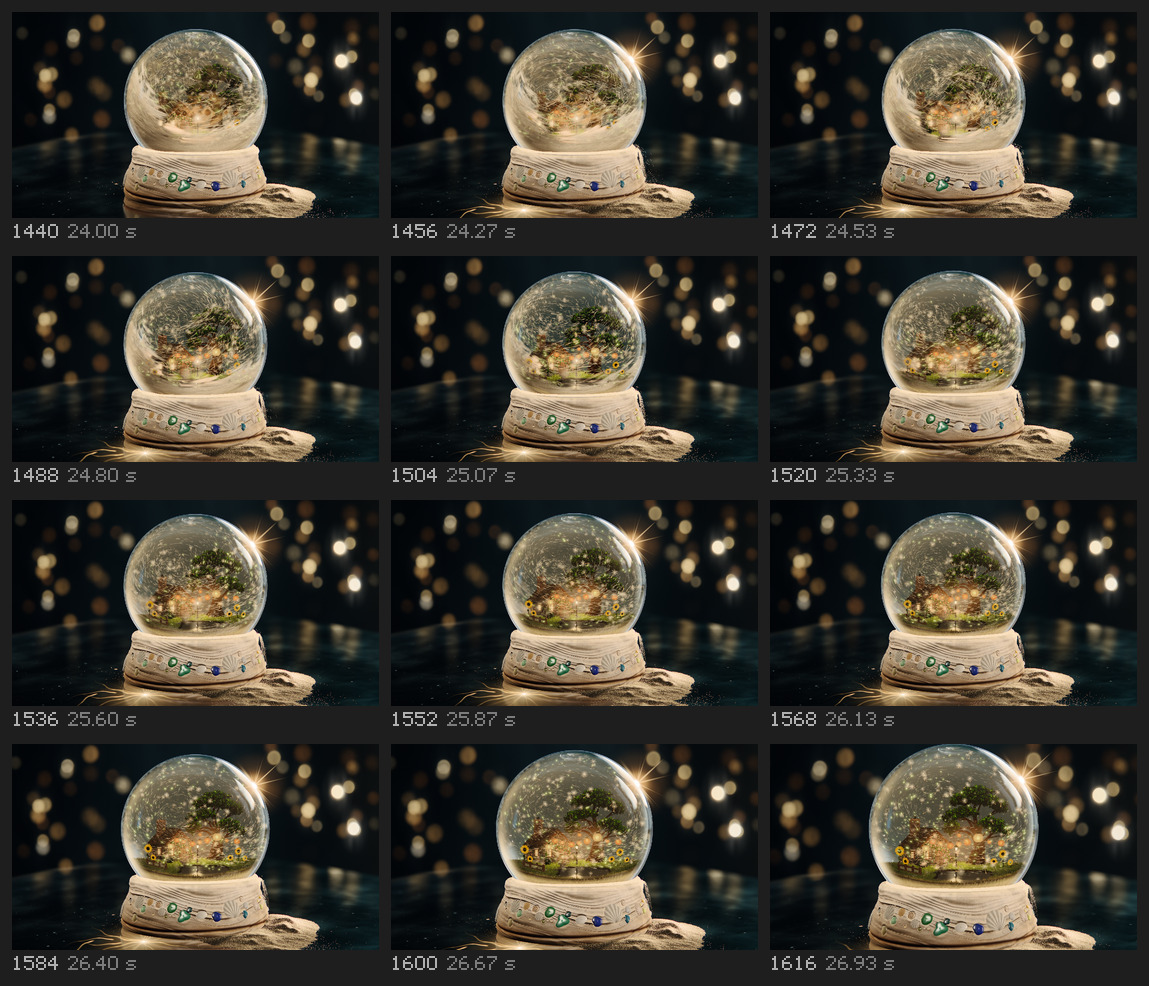
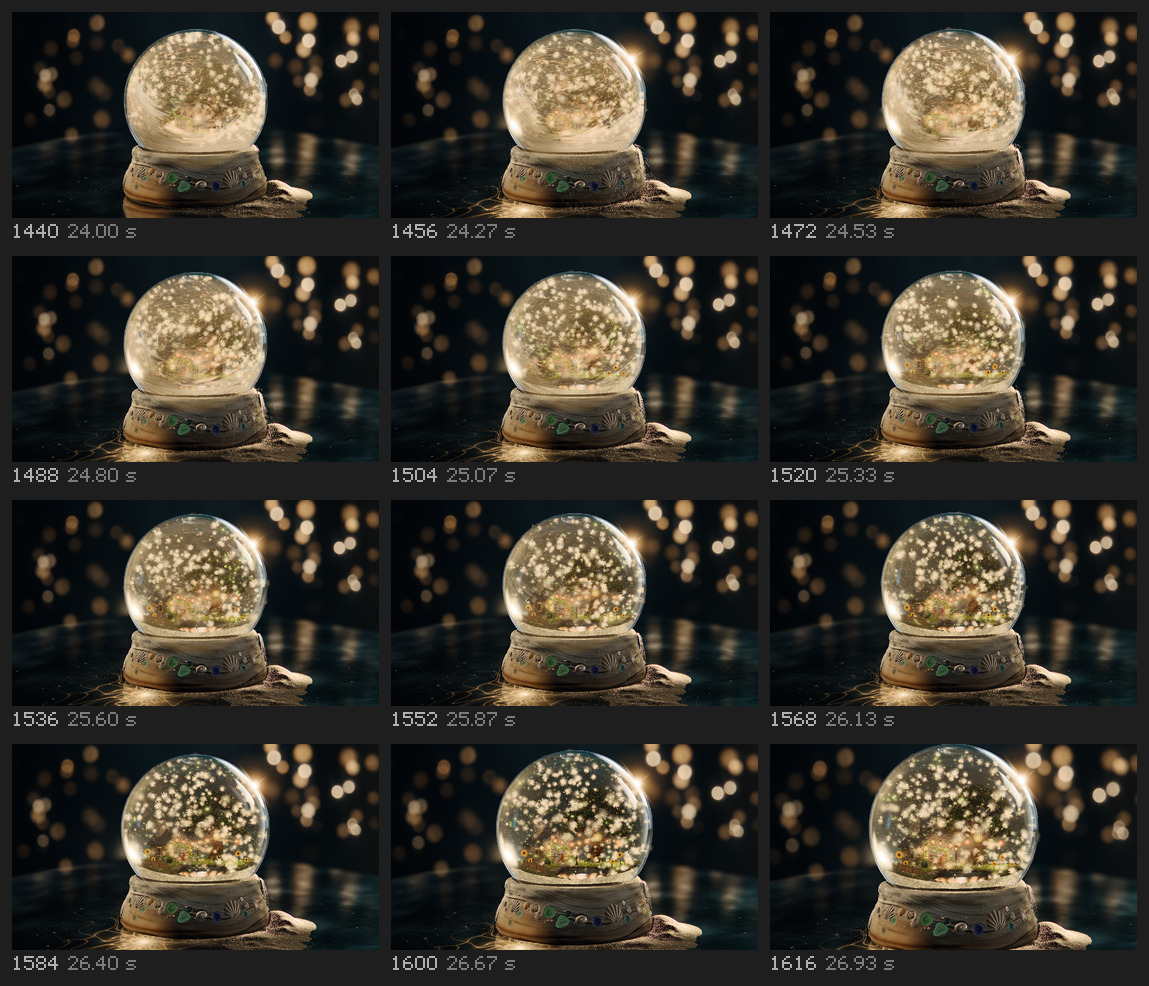
Looks: shake-2 and summer's arrival on c568e8a, frame 2116 at final tier; REPORT.md and HANDOVER.md

diff --git a/HANDOVER.md b/HANDOVER.md
@@ -1,0 +1,130 @@
+# Handover: unit `change` (the four changes of season, the three arrivals)
+
+Written by change_builder. Branch `agent/p4-change`, looks `agent/p4-change-looks`. Times UTC.
+
+## State in one line each
+
+| Part | Film frames | State | Worst thing on the newest sheet |
+| --- | --- | --- | --- |
+| change-winter-spring (shake-1) | window 648 to 683, outside span 672.2 to 677.8, landing 720 | built, flag down | stipple on the dissolving walnut base at 674 to 676 at draft's 2 samples |
+| change-spring-summer (shake-2) | 1368 to 1403, 1392.2 to 1397.8, landing 1440 | built, flag down | on the build of c568e8a (sheet of 05:26): stipple on the base at 1394 and 1396, moss and shell base over each other; the sand heap is whole at the right of the foot from 1394 while petals still lie beyond it until 1398; the shell base is pale and flat in the flood at 1398, its shells read from 1400 |
+| change-summer-fall (shake-3) | 2088 to 2123, 2112.2 to 2117.8, landing 2160 | built, flag down | stipple on the dissolving shell base at 2114 and 2116 at draft (the globe hardly moves across those two frames, so no blur covers it); summer's flare stands on the rim to 2112 until summer_air2's 9d99651 is on main |
+| change-fall-winter (shake-4) | 2808 to 2843, 2832.2 to 2837.8, landing 2880 | built, flag down | winter's base is rust orange in winter's own amber flood 2836 to 2840; the approved winter test shake shows the same (frames 84 to 104), so it is winter's look, not a half base |
+| arrival-spring | from 720 | rows have code in their owners' files on the landing clock; `arrival.ts` only sets the clock | beads on the glass and the rising mist cannot be read at sheet size; the storm thins inside one second (720 to 784), not as a slow whirl over `shake.spinDownSeconds`; the petals' jump (736) and the first water (752) read |
+| arrival-summer | from 1440 | built: grains (`arrival.ts`), flare, lanterns, pool in owners' files | on the build of c568e8a (sheet of 05:29, 1440 to 1616): the storm is whole on the landing, the flare kindles at 1456, the light pools at the foot from 1456, the storm thins slowly and the miniature is clear by 1584. Wrong: the jump of the sand is 0.1 s long and under 5 mm high and does not read; the pour off the ledge is faint; lanterns one by one and fireflies finding their places cannot be told at sheet size |
+| arrival-fall | from 2160 | rows have code in their owners' files on the landing clock; `arrival.ts` only sets the clock | the crack spreading and the bats finding the crown cannot be read at sheet size; the skitter is a small shift near the foot, not a run; faces light middle, right, left inside 0.5 s (2176 two, 2192 three); the fog pools from 2208 |
+
+No stand-in and no fallback is left in any of the seven parts. Neither named fallback was used.
+
+## How a change works (what to keep)
+
+One number, `filmState().change`, 0 before the swap window and 1 after it. `src/shake/change.ts` gives every seasonal part its span of that number (`SPANS`), pinned by `tests/shake-change.test.ts`:
+
+- inside the glass (`miniature`, `arrival`): 0.05 to 0.95, half of it a lag from the far side to the near side, hidden by the storm;
+- `light`, `veil`, `particles`: 0 to 1;
+- outside the glass (`base`, `glass-dressing`, `surface-dressing`, `backdrop`): `OUTSIDE` 0.69 to 0.85, which is 5.6 film frames at the fastest stroke.
+
+`changeBloom(change)` is 1 across `OUTSIDE` with a smooth ramp of `BLOOM_RAMP` 0.12 on each side. `BUILT_CHANGES` lists the pairs without the stand-in flag (all four now).
+
+`src/scene/lighting.ts`, `CHANGE_BLOOM = { flood: 200, lens: 0.6, pool: 8, swellFrom: 0.46, fall: 0.6 }`, used only when from and to differ:
+
+- the new season's inner light swells from 0.46 of the window (winter into winter keeps the rig's 0.12, so the frozen test shake is untouched);
+- `cross = mix.bloom * smooth(lift / fall)` where `lift` is the inner swell's fall (1 at 0.69, 0 at 0.975): the flood stands through the outside span and falls over about 3 frames after the base is whole;
+- `cross` adds to the flood on the stage (`uLightFloodFloor.w`, 200 against winter's own 18), to the pool on the table (`f.pool`) and to the lens bloom and the glass shell (`f.bloomTint`). At lens 3.5 the orb burnt to flat white; at 0.6 it keeps its glass. For scale: flood 800 was a white flash, 150 let the dissolve show.
+
+`src/core/materials.ts`, `DRESSING_FRONT = { gain: 2, fromMm: 58, toMm: 230 }`: a part with `change: 'surface-dressing'` changes from the foot outward inside its span (`stageChange()` when `uState.z < 0`).
+
+`src/particles/engine/engine.ts`: while the window is open the particles collide with the union of both seasons' solids (`both(a, b)`, a grid of the smaller distance, cached in `unions`). This took M6 at shake-2's swap from 206 of 102000 to 35. The turn of a particle (`turn`, `follow`, `blend`) was there and is unchanged: each turns at its own `swapAt` (0.22 to 0.78), in place, with its velocity, opacity dipping `SWAP_HALF` 0.22 each side.
+
+`src/seasons/summer/arrival.ts`: the grains. Drawn only from summer's landing until 8 s after it (cover fades 6.5 to 8 s), never at rest, never in the mirror of the slab, 0.6 and 0.3 of them at medium and low (index order is a stride so a prefix is an even share). 46,000 triangles at high while they fly. The pour ends by 6 s (`LOOK.flow`); `pourShare` is 0 at rest.
+
+## Measures
+
+Thresholds: M4 at least 0.85 (`shake.minCoverAtSwap`), M5 at least 0.6 (`shake.minVisibleAfterSettle`), M6 at most 0.002 (`sim.maxInsideFraction`), none outside the sphere. M6 is given as swap / landing.
+
+| Change | Cycle | What changed | Tier | M4 | M5 | M6 swap | M6 landing |
+| --- | --- | --- | --- | --- | --- | --- | --- |
+| winter-spring | before | first bloom only (d58fa20) | draft | 0.9449 | 0.9598 | 0.001559 | 0.000265 |
+| spring-summer | before | same | draft | 0.9932 | 1 | 0.00202 RED (206 of 102000) | 0.000029 |
+| summer-fall | before | same | draft | 0.9622 | 0.9472 | 0.000137 | 0.000029 |
+| fall-winter | before | same | draft | 0.9934 | 0.9997 | 0.000078 | 0.000029 |
+| winter-spring | work | union collider, capped bloom, dressing front (fc047e8) | draft | 0.9451 | 0.9622 | 0.000324 | 0.000363 |
+| spring-summer | work | same | draft | 0.9931 | 1 | 0.000343 | 0.00002 |
+| summer-fall | work | same | draft | 0.9633 | 0.9382 | 0.000118 | 0.000049 |
+| fall-winter | work | same | draft | 0.9937 | 0.9998 | 0.000069 | 0.000029 |
+| winter-spring | 1 | flood falls sooner, grains only while they fly, main at 832eb32 merged (c568e8a) | final | 0.9444 | 0.9864 | 0.000284 | 0.000265 |
+| spring-summer | 1 | same | final | 0.9797 | 1 | 0.000353 | 0.000029 |
+| summer-fall | 1 | same | final | 0.9198 | 0.9728 | 0.000088 | 0.000039 |
+| fall-winter | 1 | same | final | 0.9603 | 0.9996 | 0.000088 | 0.000039 |
+
+Cycles used at final tier: 1 of 5 on each change (05:11 to 05:23 on c568e8a, engine ef1720f38b0d94af). Outside the sphere: 0 in every line. Nothing is red. M1 on the eight judged stills of the unit was not run at final (`npm run measure -- --unit change --tier final`, run again until it says complete; with `--only` a rerun starts the asked lines again from the first). `npm run determinism` on the same build: `determinism: pass`.
+
+## Open issues from the critics, mine (Round 10 R4 on fall, Rounds 8 and 9 R4 on spring and summer)
+
+Round 10 R4 (fall), judged on 216e427, before the work below:
+
+- Issue 1, the exposed cut at 2106 to 2120. Fixed in my files with 6a5643c (flood capped so the base keeps its shape, table dressing from the foot outward), 405aaee (the flood falls over about 3 frames once the base is whole) and SPANS (the lights behind cross linearly over the whole outside span, 5.6 frames, with the flood). Seen on `flood-shake-3.jpg`. Not yet on main: the flare leaving before the window (summer_air2, 9d99651). Still open: the stipple (below).
+- Issue 3, veil and leaves across the window (shared). The engine turns every particle in place and whole by the window's close (verified in the engine; M6 green). The veil's colour crosses 0 to 1. On merged main leaves are seen in the dome at 2122 and 2124 and the storm is whole on the landing (2160). Density: summer's veil is 0.09 and fall's 0.006, so the shared flood thins fifteen times across the window; fall's own fog volume must stand in (fall_air2 knows from summer_air2). Leaves at storm size and brightness are `src/particles/draw/**` (kinds2).
+- Issue 4, the arrival revealed and the faces lit as a wipe. The faces are fall_base2's (see below, taken in part). The rest of the staging is open.
+- Issue 5, the bright patch far left on the table at 2120. Fixed with 405aaee (`fall: 0.6`): the pool on the table is down by 2122. Seen on `flood-shake-3.jpg`.
+
+Rounds 8 and 9 R4 (spring, summer): "no globe motion" is the hand, frozen for this unit (open item 71). "Surroundings never answer, base orange for a frame at 666, inner light flips early": the bloom was rebuilt after those rounds (capped flood, light swelling from 0.46, lights behind over the whole span); Rounds 11 and 12 judge fc047e8. "Season wiped on, not grown" is the arrivals' staging, open.
+
+Known and open, worst first as a viewer sees it:
+
+1. The outside dissolve is a per pixel stipple (`stageGone` in `materials.ts` hashes `gl_FragCoord.xy` with `uSeed`). At draft's 2 samples it shows as grain on the base in 2 frames of each change. At final tier (24 samples, frame 2116 rendered at 05:05, `final-2116.jpg` on the looks branch) it averages to a fine grain and the frame reads as a double exposure of the shell base and the twig base under the flood; the globe hardly moves in that frame, so no motion blur helps.
+2. The arrivals are not yet staged one thing after another across the first 3 s in any season; the storm thins as an even fade in about 1 to 3 s, not as one slow whirl (the air builders' `veil.ts` and the engine's settle, not mine; what an arrival adds is mine).
+3. Summer: the sand's jump off the ledge does not read (see next things).
+4. Shake-2: the shell base is flat cream in the flood at 1398 to 1400 and the heap is nearly whole at 1396 while petals still lie beyond it (the heap is one mesh with `change: 'surface-dressing'`, its front runs 58 to 230 mm so most of a heap near the foot changes first; that is the wanted order, but it reads early).
+5. Shake-4: winter's base is rust orange in winter's amber flood (winter's approved look; frozen).
+
+## Next three things, in order
+
+Before them: the branch last merged main at 832eb32 (04:41). Main has moved since (194209a at 05:23; the commit of the 05:20 freeze, with all ten tips, is due on origin/main about 05:35). `git checkout -- assets-full public/assets`, merge `origin/main`, make the parts whose sources changed, `npm run texpack`, `npm run build`, then render winter's two stills and the test shake again and compare them with the hashes below before anything else.
+
+1. Summer's jump: in `src/seasons/summer/arrival.ts` `LOOK.jump.liftMm` is `[0.5, 4.5]` (a flight of about 0.1 s). Try `[1, 10]` and `hopMm` `[0.6, 5]`, then `npm run sheet -- --first 1438 --last 1452 --tier draft --force` and the landed still of summer. bases2 asked for the fine radii (0.07 to 0.15 mm); keep them, raise the count's reach instead if it still does not read.
+2. The stipple: if it still shows at review tier, replace the hash in `stageGone` (`src/core/materials.ts`) by a low frequency noise in object space (about 3 mm cells) plus the radial front, so the old base breaks into patches under the flood and not into pixels. The winter into winter shake does not run this path (`from === to`), so winter stays byte-identical; check it anyway.
+3. The arrivals, one season at a time, spring first (it opens the film): render `npm run sheet -- --motion arrival --shot shake-1 --fit --tier draft --force` and close sheets on the glass (beads) and the foot (water); where a row is not seen, write the exact lines to the owner (`spring_air2` for beads and mist in `glass.ts` and `veil.ts`, `bases2` for the water in `base.ts`). Then fall (crack: `fall_air2` `glass.ts`; bats: `fall_mini2`; skitter: `fall_base2` `slab.ts`), then summer (lanterns one by one: `summer_mini2`; fireflies: `kinds2`).
+
+## Tried, and what I could not see
+
+Tried, with the numbers:
+
+- Flood strength (`CHANGE_BLOOM.flood`): 800 was a white flash over the whole base, 150 let the dissolve show clean, 200 is kept. Lens bloom 3.5 burnt the orb to flat white for 3 frames, 0.6 keeps the glass.
+- Fall of the flood (`fall`): 1 (the flood dying with the inner swell at 0.975 of the window) left a bright patch on the table after the base was whole (the critics' frame 2120); 0.6 has it down about 3 frames after the outside span.
+- Table dressing: all at once read as popped on; with `DRESSING_FRONT` it runs from the foot (58 mm) to 230 mm inside the same 5.6 frames.
+- M6 at shake-2's swap: colliding with the new season's solids only left 206 particles inside the old ones; the union of both took it to 35.
+- Summer's grains: radii and pour as bases2 asked; a ring of grains lying on the slab outside the arrival was taken out (they hovered when the heap changed).
+- Spring "grown, not wiped on": I wrote lines for `src/seasons/spring/mini/tree.ts` (spring_mini2's file) that open the blossom clusters from buds on the landing clock (`BUD = { closed: 0.34, openSeconds: 1.2, spreadSeconds: 1.5, startSeconds: 0.15 }`) and dropped them unsent: the kit's row for spring does not name it and the storm hides the crown for the first second. They lie beside this file as `bud.patch`, never built into a judged frame and never seen; take them only as a start for a message to spring_mini2.
+
+Not seen by me, so not claimed:
+
+- The build of the 05:20 freeze (ten tips merged). Everything here was seen on c568e8a, which is main at 832eb32 plus my work.
+- The grains' fade from 6.5 to 8 s after summer's landing: not seen on a sheet, only that the rest still shows none and the sheet to 2.9 s shows them.
+- Any change at final tier except the one frame 2116. Any change or arrival as moving video; all judging was on sheets.
+- In the arrivals, at sheet size: beads and mist (spring), lanterns one by one and fireflies finding their places (summer), the crack and the bats (fall). They need close sheets.
+- summer_air2's flare leaving before the window (their 9d99651): agreed, not seen merged.
+
+## Agreed with owners
+
+- fall_air2 (03:26): fog is `change: 'veil'`, crosses through the window (on main).
+- fall_base2 (04:41): seen faces catch middle 0.04, right 0.10, left 0.20 s with a spit, a low hold and a flare, lit by 0.5 s because the landed still must show them lit; the four behind catch at 0.6, 1.9, 0.3, 1.0 s. `setCandles(moment, seconds)` unchanged.
+- summer_air2 (04:42): when summer leaves, the flare, the hot patch and the caustic pool are out 0.2 beat before the window opens (their 9d99651); the golden wall glow thins with `1 - mix.veil`.
+- bases2 (04:43): summer's heap runs on under the foot (no notch when the base lifts); my grains no longer lie on the slab outside the arrival.
+- kinds2 (04:38, sent, no answer yet): the turn is whole by the window's close; that fall's leaves are not seen from the window to the landing is the drawing of a fast leaf or the fog over it.
+
+## Handover: files
+
+Mine: `src/shake/change.ts`, `src/scene/stage.ts`, `src/scene/lighting.ts`, `src/scene/surface.ts`, `src/core/materials.ts`, in `src/particles/engine/engine.ts` the change of kind and `both`/`unions`, `src/seasons/spring/arrival.ts`, `src/seasons/summer/arrival.ts`, `src/seasons/fall/arrival.ts`. Changed in this pass: `change.ts`, `lighting.ts`, `materials.ts`, `engine.ts`, `summer/arrival.ts`. Not changed: `stage.ts` (already reads `BUILT_CHANGES`), `surface.ts`, the spring and fall `arrival.ts`.
+
+Read only: `src/shake/table.ts` (the hand, open item 71), cameras, `config/showcase.json`, winter.
+
+`npm run make` targets: none of mine. After merging main at 04:41 these were made in this order before `npm run texpack` and `npm run build`: base-fall, base-spring, base-summer, slab-fall, slab-spring, tree-fall, tree-spring, tree-summer, village-fall, village-spring, village-summer.
+
+`ASSETS.md` rows: none (no asset added).
+
[1 lines of base64/hex data omitted]
+
+## Looks used
+
+Counted from my notes, sheets and stills I rendered and looked at: change-winter-spring 10; change-spring-summer 3; change-summer-fall 6 (one of them the final-tier frame 2116); change-fall-winter 4; arrival-spring 2; arrival-summer 3; arrival-fall 2. All under 40. Not looks of a part but checks: the winter into winter test shake 4 sheets, winter's two stills 8 times (2 kept before the first change, 6 to compare). On the looks branch now: `flood-shake-1.jpg` to `flood-shake-4.jpg`, `arrival-spring.jpg`, `arrival-summer.jpg`, `arrival-fall.jpg`, `summer-grains.jpg`, `final-2116.jpg`, with `captions.txt`.

diff --git a/REPORT.md b/REPORT.md
@@ -1,0 +1,85 @@
+# Report: unit `change` (change_builder), Phase 4
+
+Times UTC. Branch `agent/p4-change`, last commit `c568e8a` (pushed 04:50, in the freeze of 05:20). Looks `agent/p4-change-looks`. `HANDOVER.md` beside this file holds the state of each change and arrival, what is wrong on the newest sheet, and the next three things to do.
+
+## Stand-ins and fallbacks
+
+None. `BUILT_CHANGES` in `src/shake/change.ts` holds all four pairs, so `stage.ts` flags no `change-*` part. Neither named fallback (the plain dissolve of every part; an arrival faded in evenly) was used.
+
+## What was built, by commit
+
+| Commit | What |
+| --- | --- |
+| da3d387 | first bloom of the new season's inner light across the outside span; summer's grains no longer hair-like streaks |
+| c9c08b2 | the particles collide with the union of both seasons' solids while the window is open (M6 at shake-2's swap from 206 to 35 of 102000) |
+| 6a5643c | the flood capped (200, lens 0.6) so the orb keeps its glass and the base its shape; the table dressing changes from the foot outward (`DRESSING_FRONT`) |
+| 419d22c, fc047e8 | the stand-in flag down for the four changes, each after its sheet was judged |
+| 405aaee | the flood falls over about 3 frames once the base is whole (`fall: 0.6`): no bright patch left on the table after the change |
+| d09daec | summer's grains drawn only from the landing to 8 s after it, never in the mirror, 0.6 and 0.3 of them at medium and low (G15) |
+| b95a98c, e8b5177 | merges of `origin/main` |
+| c568e8a | winter check after the merge of main at 832eb32 |
+
+## Measures
+
+Thresholds M4 at least 0.85, M5 at least 0.6, M6 at most 0.002 and none outside the sphere. M6 is swap / landing. A cycle is one change to the build and one measure at final tier; the build of cycle 1 is c568e8a.
+
+| Change | Cycle | What changed | Tier | M4 | M5 | M6 swap | M6 landing |
+| --- | --- | --- | --- | --- | --- | --- | --- |
+| winter-spring | before | first bloom only (d58fa20) | draft | 0.9449 | 0.9598 | 0.001559 | 0.000265 |
+| spring-summer | before | same | draft | 0.9932 | 1 | 0.00202 RED (206 of 102000) | 0.000029 |
+| summer-fall | before | same | draft | 0.9622 | 0.9472 | 0.000137 | 0.000029 |
+| fall-winter | before | same | draft | 0.9934 | 0.9997 | 0.000078 | 0.000029 |
+| winter-spring | work | union collider, capped bloom, dressing front (fc047e8) | draft | 0.9451 | 0.9622 | 0.000324 | 0.000363 |
+| spring-summer | work | same | draft | 0.9931 | 1 | 0.000343 | 0.00002 |
+| summer-fall | work | same | draft | 0.9633 | 0.9382 | 0.000118 | 0.000049 |
+| fall-winter | work | same | draft | 0.9937 | 0.9998 | 0.000069 | 0.000029 |
+| winter-spring | 1 | flood falls sooner, grains only while they fly, main at 832eb32 merged (c568e8a) | final | 0.9444 | 0.9864 | 0.000284 | 0.000265 |
+| spring-summer | 1 | same | final | 0.9797 | 1 | 0.000353 | 0.000029 |
+| summer-fall | 1 | same | final | 0.9198 | 0.9728 | 0.000088 | 0.000039 |
+| fall-winter | 1 | same | final | 0.9603 | 0.9996 | 0.000088 | 0.000039 |
+
+Cycles used at final tier: 1 of 5 on each change. Nothing is red. No threshold and no input of a measure was touched.
+
+How to run it: `npm run measure -- --unit change --only M4,M5 --tier final` took 225 s for the 8 lines; `--only M6` after it keeps them. With `--only` a rerun measures the asked lines again from the first; without `--only` the run carries on where `sandbox.chunkBudgetMinutes` stopped it and also measures M1 on the eight judged stills (not run by me at final).
+
+## Tests and checks, as printed
+
+- `npx tsc --noEmit`: no output (clean), 05:13 on c568e8a.
+- `npx vitest run`: `Test Files 32 passed | 1 skipped (33)`, `Tests 432 passed | 4 skipped (436)`, 05:14 on c568e8a.
+- `npm run determinism`: `determinism: pass · 3 pictures, 4 page loads, preview, draft, 330 s`, 05:15 to 05:20 on c568e8a.
+- Winter, frozen: `npm run still -- --season winter --state rest|landed --camera hero --tier draft --format hd --force` byte-identical to the stills kept before my first change (sha256 rest `f6a5bfd6…81bf9`, landed `06ce7056…bf0cd`, full values in HANDOVER.md), and the nine frames of the winter into winter test shake identical, last checked 04:45 to 04:50 on the build of c568e8a.
+- Triangles by G15's method on c568e8a (hd, web set, rest, hero, live level; high / medium / low): spring 1,515,704 / 885,486 / 402,146; summer 1,679,719 / 935,831 / 432,158; fall 1,601,891 / 932,848 / 415,102. Limits 1,800,000 / 1,100,000 / 600,000.
+
+## Pushes
+
+Branch: da3d387 (first, about 03:40), b95a98c 04:18, fc047e8 04:27, c568e8a 04:50. Nothing changed in the code after 04:50, so nothing was pushed to the branch after it. Looks: fb98d5f 03:20, d9ea952 03:47, 8584704 04:08, bbb91f6 04:27, c27d7d9 04:55, 13093cf 05:01, and the last one with this file. Each branch push after a merge of `origin/main`, tsc and vitest; never forced, never to main.
+
+## Constants a successor should know
+
+- `src/shake/change.ts`: `SPANS` inside 0.05 to 0.95 with lag 0.5; light, veil, particles 0 to 1; `OUTSIDE` 0.69 to 0.85; `BLOOM_RAMP` 0.12.
+- `src/scene/lighting.ts`: `CHANGE_BLOOM = { flood: 200, lens: 0.6, pool: 8, swellFrom: 0.46, fall: 0.6 }`. Flood 800 is a white flash, 150 lets the dissolve show; lens 3.5 burns the orb flat white.
+- `src/core/materials.ts`: `DRESSING_FRONT = { gain: 2, fromMm: 58, toMm: 230 }`.
+- `src/particles/engine/engine.ts`: `SWAP_HALF` 0.22, `swapAt` 0.22 to 0.78 (unchanged); `both(a, b)` and `unions` are the union collider.
+- `src/seasons/summer/arrival.ts`: `LOOK.gone [6.5, 8]`, `share { medium: 0.6, low: 0.3 }`, `stride 7919`, jump `liftMm [0.5, 4.5]`, 14,000 jump grains and 9,000 pour grains.
+- Frames: windows 648 to 683, 1368 to 1403, 2088 to 2123, 2808 to 2843; landings 720, 1440, 2160, 2880; the outside span is the 5.6 frames from window start + 24.2.
+- Times in this VM: a draft sheet frame 15 to 25 s (the first of a late range 100 s more), a final frame about 90 s, an hd still 75 s, vitest 76 s, the 11 parts + texpack + build 2.7 min.
+
+## `npm run make` targets
+
+None of mine (no asset added or changed). To build the tree after merging main I made, in this order: base-fall, base-spring, base-summer, slab-fall, slab-spring, tree-fall, tree-spring, tree-summer, village-fall, village-spring, village-summer; then `npm run texpack`, `npm run build`.
+
+## `ASSETS.md` rows
+
+None.
+
+## Looks used (limit 40 a part)
+
+Counted from my notes, sheets and stills I rendered and looked at: change-winter-spring 10; change-spring-summer 3; change-summer-fall 6 (one of them the final-tier frame 2116); change-fall-winter 4; arrival-spring 2; arrival-summer 3; arrival-fall 2. All under 40. Not looks of a part but checks: the winter into winter test shake 4 sheets, winter's two stills 8 times (2 kept before the first change, 6 to compare). On the looks branch now: `flood-shake-1.jpg` to `flood-shake-4.jpg`, `arrival-spring.jpg`, `arrival-summer.jpg`, `arrival-fall.jpg`, `summer-grains.jpg`, `final-2116.jpg`, with `captions.txt`.
+
+## Handover
+
+Files of this unit: `src/shake/change.ts`, `src/scene/stage.ts`, `src/scene/lighting.ts`, `src/scene/surface.ts`, `src/core/materials.ts`, in `src/particles/engine/engine.ts` the change of kind (`turn`, `follow`, `blend`, `both`, `unions`), `src/seasons/spring/arrival.ts`, `src/seasons/summer/arrival.ts`, `src/seasons/fall/arrival.ts`, tests of its own under `src/shake/` (none added; `tests/shake-change.test.ts` is `/root`'s and pins the spans).
+
+Changed by me: `change.ts`, `lighting.ts`, `materials.ts`, `engine.ts`, `summer/arrival.ts`. Read only: `src/shake/table.ts` (the hand, open item 71), cameras, `config/showcase.json`, winter.
+
+Work trees I used (gone with this VM): a render tree on the branch where every render ran one at a time from a queue file, an edit tree for tsc, vitest and commits, a looks tree. A tool of my own outside git, `out/work/bin/tris.mjs`, prints G15's triangle counts per season (it is G15's loop from `tools/lib/checks.mjs`).
